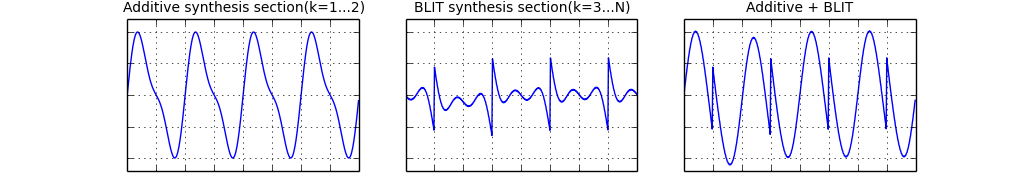
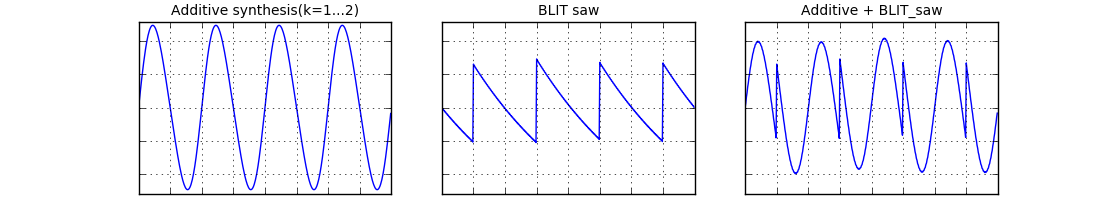
効率改善

diff --git a/test_plot.py b/test_plot.py
@@ -23,11 +23,11 @@ slave = 1.2           # [1.0, 2.0]
 # set frequency...
 master_freq = 441.0                                           # master frequency
 
-n = int(sample_rate/2/master_freq)                            # Nyquist limit
-dt = 2*math.pi*master_freq/sample_rate                        # delta t
-b1 = -2*math.sin(math.pi*slave)/(math.pi*(1+slave)*(1-slave)) # Fourier coefficient for sin(2*PI*1*t)
-b2 = -4*math.sin(math.pi*slave)/(math.pi*(2+slave)*(2-slave)) # Fourier coefficient for sin(2*PI*2*t)
-b3 = -2*math.sin(math.pi*slave)/math.pi                       # used for BLIT section
+n = int(sample_rate/2/master_freq)                                # Nyquist limit
+dt = 2*math.pi*master_freq/sample_rate                            # delta t
+b1 = math.sin(math.pi*slave)/math.pi*(-1/(1+slave)-1/(1-slave)+2) # Fourier coefficient for sin(2*PI*1*t)
+b2 = math.sin(math.pi*slave)/math.pi*(-1/(2+slave)-1/(2-slave)+1) # Fourier coefficient for sin(2*PI*2*t)
+b3 = -math.sin(math.pi*slave)/math.pi                             # used for BLIT section
 
 # for each sample...
 t = -math.pi            # current position
@@ -45,34 +45,33 @@ for i in range(400):
     t += dt
 
     # update BLIT
-    blit_sum = leak*blit_sum \
-             + math.cos((n+3)*0.5*t)*math.sin((n-3+1)*0.5*t)/math.sin(0.5*t)*dt
+    blit_sum = leak*blit_sum + (math.sin((n+0.5)*t)/math.sin(0.5*t)-1.0)*dt
 
 # Additive synthesis section(k=1...2)
 p1 = plt.subplot(131)
 plt.plot(v1)
-plt.ylim([-1.2,1.2])
+plt.ylim([-1.3,1.3])
 plt.grid()
 plt.setp(p1.get_xticklabels(), visible=False)
 plt.setp(p1.get_yticklabels(), visible=False)
-plt.title('Additive synthesis section(k=1...2)', fontsize=10)
+plt.title('Additive synthesis(k=1...2)', fontsize=10)
 
 # BLIT synthesis section(k=3...N)
 p2 = plt.subplot(132)
 plt.plot(v2)
-plt.ylim([-1.2,1.2])
+plt.ylim([-1.3,1.3])
 plt.grid()
 plt.setp(p2.get_xticklabels(), visible=False)
 plt.setp(p2.get_yticklabels(), visible=False)
-plt.title('BLIT synthesis section(k=3...N)', fontsize=10)
+plt.title('BLIT saw', fontsize=10)
 
 # Additive + BLIT
 p3 = plt.subplot(133)
 plt.plot(v3)
-plt.ylim([-1.2,1.2])
+plt.ylim([-1.3,1.3])
 plt.grid()
 plt.setp(p3.get_xticklabels(), visible=False)
 plt.setp(p3.get_yticklabels(), visible=False)
-plt.title('Additive + BLIT', fontsize=10)
+plt.title('Additive + BLIT_saw', fontsize=10)
 
 plt.show()
